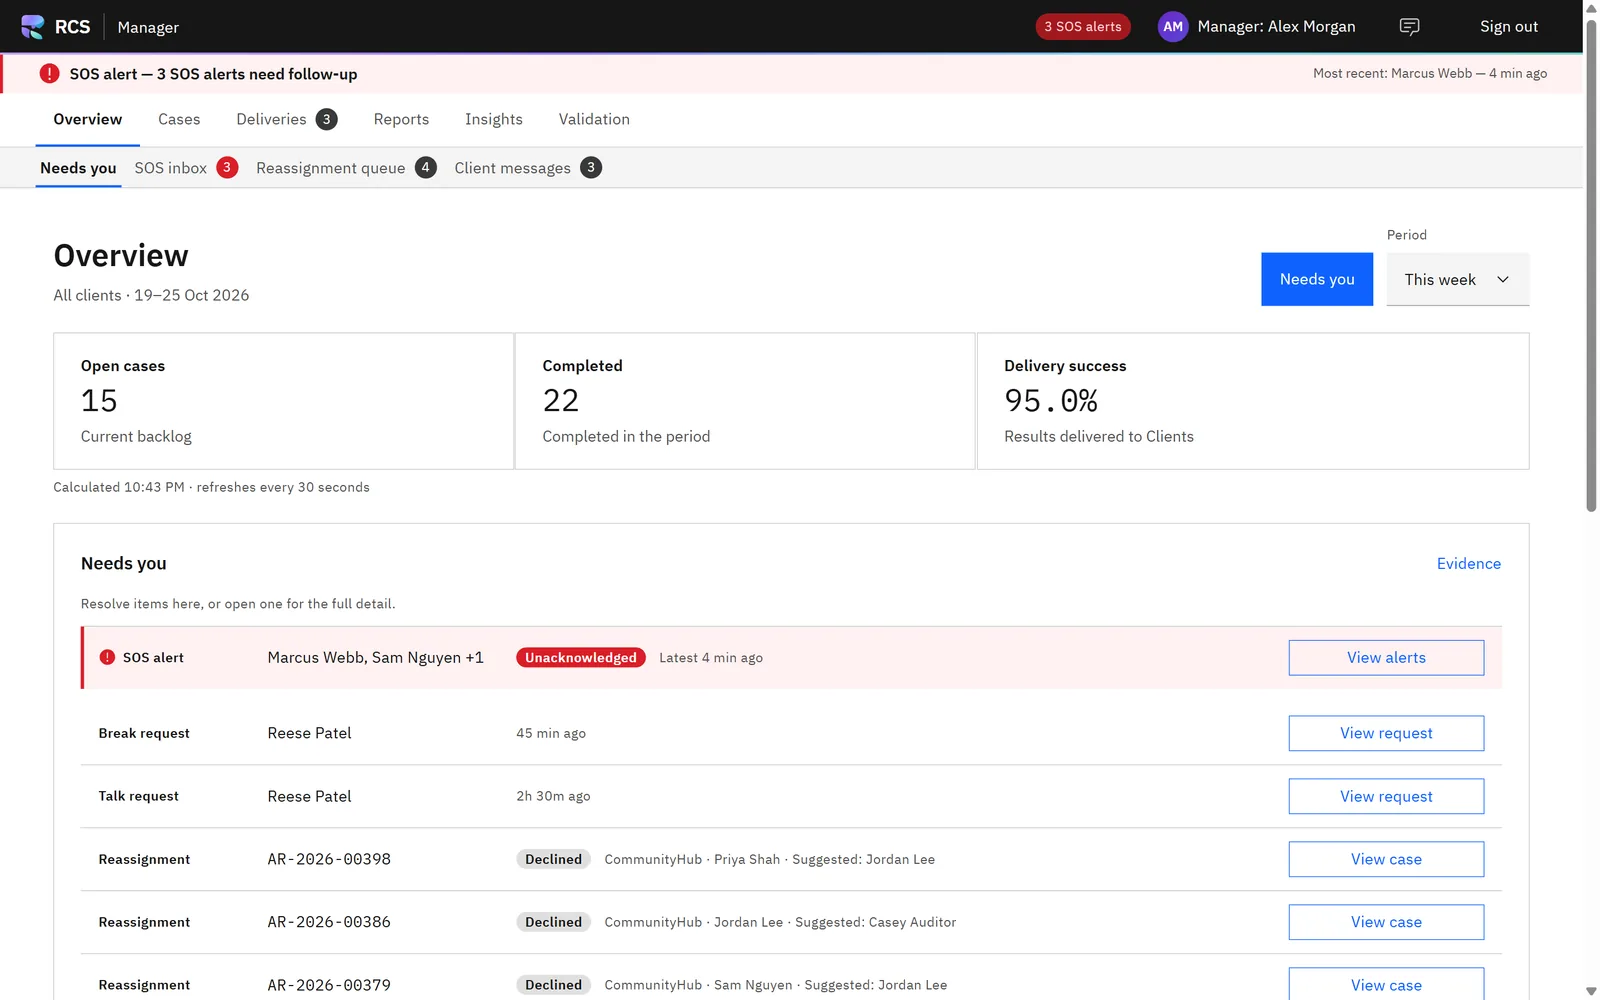
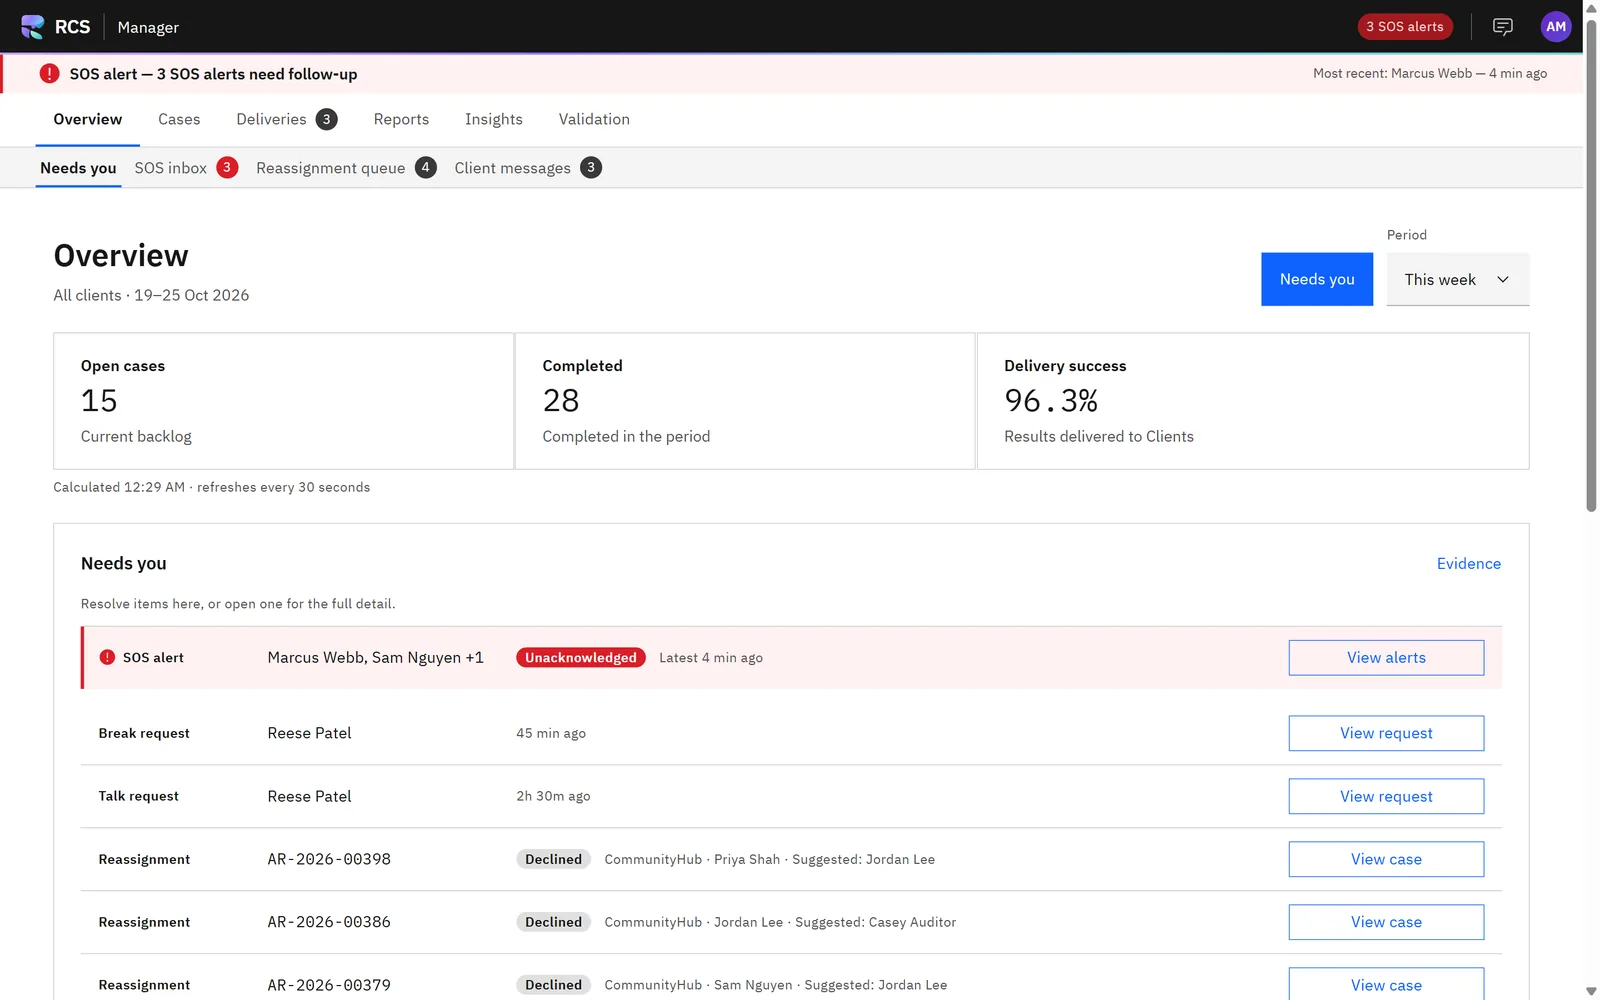
chore(landing): retake the tour screenshots with the new header right side
The Reviewer, Manager and Client tour screens still showed the old header
(name text and an underlined Sign out). Recaptured at 1440x900 with the
status, hairline, AI Buddy and account avatar, the demo-only controls
hidden for the capture. The image URLs carry ?v=3 so browsers drop any
cached older capture; bump it whenever the screens are retaken.

Changed region(s): [[0.625, 0.0, 1.0, 0.062], [0.0938, 0.465, 0.2188, 0.496]]

diff --git a/frontend/src/pages/marketing/ProductTour.tsx b/frontend/src/pages/marketing/ProductTour.tsx
@@ -5,6 +5,7 @@ import { Tab, TabList, TabPanel, TabPanels, Tabs } from "@carbon/react";
  * data mode, 1440x900 at 2x, saved under public/landing). Footage stays at 100% blur and every person and case is
  * synthetic. The bullet points describe only what the screenshot shows.
  */
+/** Bump `v` whenever the screenshots are retaken, so browsers never show a cached older capture. */
 const VIEWS = [
   {
     tab: "Reviewer workspace",
@@ -15,7 +16,7 @@ const VIEWS = [
       "Today's viewing time against the daily limit stays in the header",
       "A wellbeing check-in is one click away, and the case stays open",
     ],
-    image: "/landing/reviewer-workspace.webp",
+    image: "/landing/reviewer-workspace.webp?v=3",
     window: "RCS · Review workspace",
     alt: "The RCS Reviewer workspace for case AR-2026-00417: the video is fully blurred at 100% with grayscale on and a red SOS button over it, the AI summary and S3 High severity are on the right, and the header shows 62 of 120 minutes of exposure used today.",
   },
@@ -28,7 +29,7 @@ const VIEWS = [
       "Failed deliveries to a Client, with the reason",
       "Open cases, completed cases and delivery success for the period",
     ],
-    image: "/landing/manager-overview.webp",
+    image: "/landing/manager-overview.webp?v=3",
     window: "RCS · Manager overview",
     alt: "The RCS Manager overview: an SOS banner, figures for open cases, completed cases and delivery success, and a Needs you list led by an unacknowledged SOS alert, then break and talk requests and declined cases awaiting reassignment.",
   },
@@ -41,7 +42,7 @@ const VIEWS = [
       "Apply RCS decisions in one go, or record an action post by post",
       "Never footage, summaries or who reviewed a case",
     ],
-    image: "/landing/client-case-results.webp",
+    image: "/landing/client-case-results.webp?v=3",
     window: "RCS · Client portal",
     alt: "The RCS Client portal case results for CommunityHub: figures for violations found, posts removed and results acted on, and a Needs action table listing each case ID, post, RCS result, final severity and a Record action button.",
   },

diff --git a/frontend/src/pages/marketing/RcsLandingPage.test.tsx b/frontend/src/pages/marketing/RcsLandingPage.test.tsx
@@ -82,9 +82,9 @@ describe("RCS landing page", () => {
     expect(tabs).toEqual(["Reviewer workspace", "Manager oversight", "Client portal"]);
     const images = [...tour.querySelectorAll("img")];
     expect(images.map((img) => img.getAttribute("src"))).toEqual([
-      "/landing/reviewer-workspace.webp",
-      "/landing/manager-overview.webp",
-      "/landing/client-case-results.webp",
+      "/landing/reviewer-workspace.webp?v=3",
+      "/landing/manager-overview.webp?v=3",
+      "/landing/client-case-results.webp?v=3",
     ]);
     images.forEach((img) => expect(img.getAttribute("alt")?.length).toBeGreaterThan(60));
   });
@@ -147,7 +147,8 @@ describe("RCS landing page", () => {
     await user.click(proceed);
 
     expect(within(demo).getByRole("slider", { name: /Blur intensity/ })).toHaveAttribute("aria-valuenow", "100");
-    expect(within(demo).getByRole("switch", { name: /Grayscale/ })).toBeChecked();
+    // Grayscale starts off in the demo (the sample frame reads better in colour) and is one click away.
+    expect(within(demo).getByRole("switch", { name: /Grayscale/ })).not.toBeChecked();
     expect(within(demo).getByText("Sample frame, not real footage")).toBeInTheDocument();
 
     await user.click(within(demo).getByRole("button", { name: "SOS" }));
